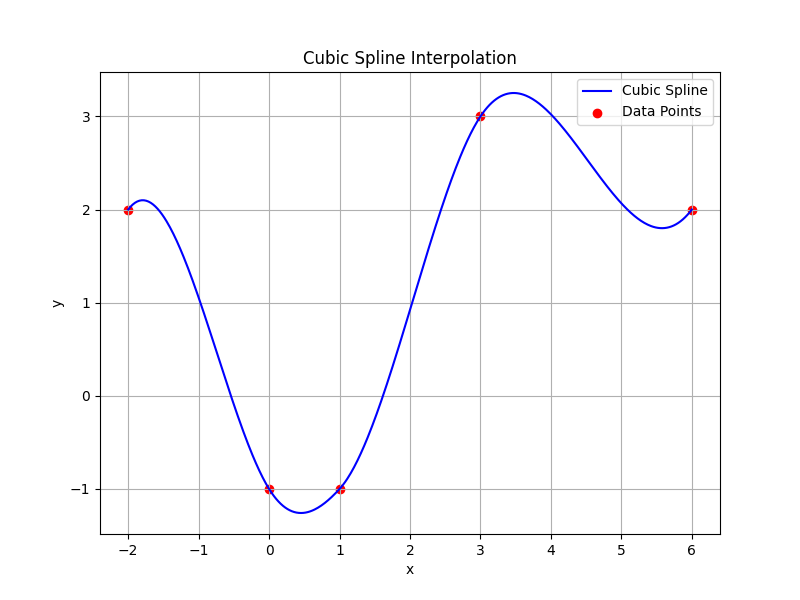
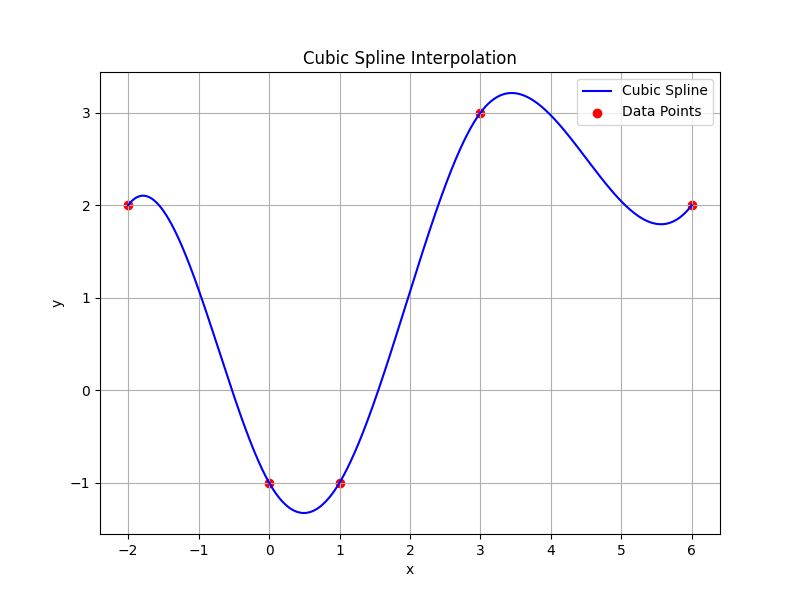
Correct a1

diff --git a/a1/a1.tex b/a1/a1.tex
@@ -246,7 +246,7 @@ $$
     r_3 = 3(\Delta x_3 y'_2 + \Delta x_2 y'_3) = 3(2 \cdot 0 + 1 \cdot 2) = 6,
 $$
 $$
-    r_4 = 3(\Delta x_4 y'_3 + \Delta x_3 y'_4) = 3(3 \cdot 2 + 2 \cdot (-\frac{1}{3})) = 3(6 - \frac{2}{3}) = \frac{52}{3}.
+    r_4 = 3(\Delta x_4 y'_3 + \Delta x_3 y'_4) = 3(3 \cdot 2 + 2 \cdot (-\frac{1}{3})) = 3(6 - \frac{2}{3}) = 16.
 $$
 
 Boundary conditions modify:
@@ -260,7 +260,7 @@ $$
         1            \\
         -\frac{9}{2} \\
         6            \\
-        \frac{52}{3} \\
+        16 \\
         1
     \end{bmatrix}.
 $$
@@ -271,9 +271,9 @@ $$
     T =
     \begin{bmatrix}
         1 & 0 & 0 & 0  & 0 \\
-        2 & 6 & 1 & 0  & 0 \\
-        0 & 1 & 6 & 2  & 0 \\
-        0 & 0 & 2 & 10 & 3 \\
+        1 & 6 & 2 & 0  & 0 \\
+        0 & 2 & 6 & 1  & 0 \\
+        0 & 0 & 3 & 10 & 2 \\
         0 & 0 & 0 & 0  & 1
     \end{bmatrix}, \quad
     \vec{r} =
@@ -281,7 +281,7 @@ $$
         1            \\
         -\frac{9}{2} \\
         6            \\
-        \frac{52}{3} \\
+        16 \\
         1
     \end{bmatrix}.
 $$
@@ -292,9 +292,9 @@ $$
     \vec{s} =
     \begin{bmatrix}
         1          \\
-        -1.2208589 \\
-        0.82515337 \\
-        1.13496933 \\
+        -1.34271523\\
+        1.2781457\\
+        1.01655629\\
         1
     \end{bmatrix}.
 $$
@@ -303,13 +303,13 @@ $$
     a_1=2, a_2=-1, a_3=-1, a_4=3
 $$
 $$
-    b_1=1, b_2=-1.221, b_3=0.8251, b_4=1.135
+    b_1=1, b_2=-1.343, b_3=1.278, b_4=1.017
 $$
 $$
-    c_1=-2.640, c_2=1.617, c_3=1.607, c_4=-1.423
+    c_1=-2.579, c_2=1.407, c_3=1.214, c_4=-1.344
 $$
 $$
-    d_1=0.6948, d_2=-0.3957, d_3=-0.5100, d_4=0.3113
+    d_1=0.6643, d_2=-0.06457, d_3=-0.4263, d_4=0.2981
 $$
 (Process included in \texttt{A1Q5.ipynb})
 
